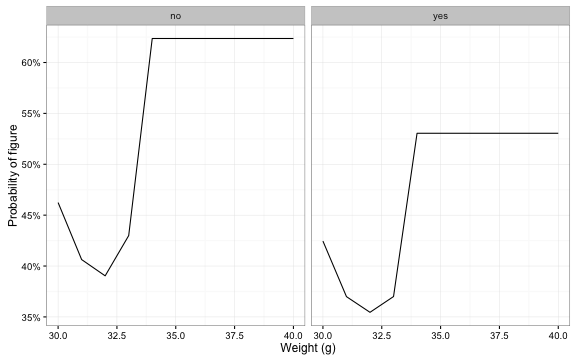
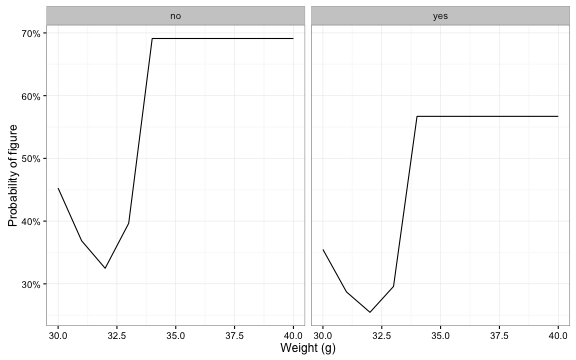
extended xgboost grid search for hyperparameters to get better classifier

diff --git a/_posts/2016-12-23-surprise.md b/_posts/2016-12-23-surprise.md
@@ -6,28 +6,7 @@ bibliography: ~/Literature/Bibtex/jabref.bib
 comments: true
 ---
 
-```{r,include=FALSE,echo=FALSE,message=FALSE}
-##If default fig.path, then set it.
-if (knitr::opts_chunk$get("fig.path") == "figure/") {
-  knitr::opts_knit$set( base.dir = '/Users/hoehle/Sandbox/Blog/')
-  knitr::opts_chunk$set(fig.path="figure/source/2016-12-23-surprise/")
-}
-fullFigPath <- paste0(knitr::opts_knit$get("base.dir"),knitr::opts_chunk$get("fig.path"))
-filePath <- "/Users/hoehle/Sandbox/Blog/figure/source/2016-12-23-surprise/"
 
-knitr::opts_chunk$set(echo = TRUE,fig.width=8,fig.height=5,fig.cap='',autodep=TRUE)
-options(width=90)
-library("dplyr")
-library("ggplot2")
-library("tidyr")
-library("methods")
-library("forcats")
-
-theme_set(theme_bw())
-
-##Set seed
-set.seed(123)
-```
 
 ## Abstract
 
@@ -37,9 +16,7 @@ using boosted regression trees for the egg's weight and possible
 rattling noises.
 
 <center>
-```{r,results='asis',echo=FALSE}
-cat(paste0("![]({{ site.baseurl }}/",knitr::opts_chunk$get("fig.path"),"pics/figures.jpg"),")")
-```
+![]({{ site.baseurl }}/figure/source/2016-12-23-surprise/pics/figures.jpg )
 </center>
 
 {% include license.html %}
@@ -74,10 +51,7 @@ Your budget is limited, so the question is which egg to select when
 standing in the supermarket?
 
 <center>
-```{r,results='asis',echo=FALSE}
-##Photo taken 17 Oct 2013 in Coop supermarked Södermalm, Stockholm.
-cat(paste0("![]({{ site.baseurl }}/",knitr::opts_chunk$get("fig.path"),"pics/inshopwithprice.jpg"),")")
-```
+![]({{ site.baseurl }}/figure/source/2016-12-23-surprise/pics/inshopwithprice.jpg )
 </center>
 <p>
 Photo: Price in SEK per egg in a Swedish supermarket.
@@ -108,20 +82,9 @@ based on boosted classification trees.
 
 ## Data Collection
 
-```{r,echo=FALSE}
-#Load data
-surprise <- read.table(paste0(filePath,"surprise.txt"),header=TRUE,skip=9)
-#Some data munging to get factor variable
-surprise <- surprise %>% mutate(rattles=1-rattles_like_figure, #solve ambiguity in the rattling covar
-                                rattles_fac = fct_recode(factor(rattles),
-                                                         "no"="0",
-                                                         "yes"="1"),
-                                figure_fac = fct_recode(factor(figure),
-                                                     "no" = "0",
-                                                     "yes" = "1"))
-```
-We collected n=`r nrow(surprise)` eggs of which
-`r sprintf('%.1f%%',100*mean(surprise$figure))` were figures - the
+
+We collected n=79 eggs of which
+43.0% were figures - the
 data are available under a GPL v3.0 license from [github](https://github.com/hoehleatsu/hoehleatsu.github.io/blob/master/figure/source/2016-12-23-surprise/surprise.txt). For
 each egg, we determined its **weight** as well as the sound it produced
 when being shaken. If the sounds could be characterized as **rattling**
@@ -129,29 +92,35 @@ when being shaken. If the sounds could be characterized as **rattling**
 many parts and, hence, unlikely to be a figure.
 
 <center>
-```{r,results='asis',echo=FALSE}
-cat(paste0("![]({{ site.baseurl }}/",knitr::opts_chunk$get("fig.path"),"pics/weightandrattle.jpg"),")")
-```
+![]({{ site.baseurl }}/figure/source/2016-12-23-surprise/pics/weightandrattle.jpg )
 </center>
 <p>
 Altogether, the first couple of rows of the dataset look as follows.
 
-```{r}
+
+```r
 head(surprise, n=5)
 ```
 
-### Descriptive Data Analysis
-```{r,echo=FALSE}
-tab <- with(surprise, table(figure, rattles))
+```
+##   weight rattles_like_figure figure rattles rattles_fac figure_fac
+## 1     32                   1      0       0          no         no
+## 2     34                   0      1       1         yes        yes
+## 3     34                   1      1       0          no        yes
+## 4     30                   1      0       0          no         no
+## 5     34                   1      1       0          no        yes
 ```
 
+### Descriptive Data Analysis
+
+
 The fraction of figures in the dataset was
-`r sum(surprise$figure)`/`r nrow(surprise)`, which is way higher than
+34/79, which is way higher than
 the proclaimed 1/7; possibly, because professionals egg collectors were at work...
 
-Of the `r sum(tab)` analysed eggs, `r colSums(tab)[1]` were categorized as non-rattling.
+Of the 79 analysed eggs, 54 were categorized as non-rattling.
 The probability of such a non-rattling egg really containing
-a figure was `r sprintf("%.1f%%",tab[1,1]/(tab[1,1]+tab[2,1])*100)`.
+a figure was 51.9%.
 This proportion is not impressive, but could be due to the data
 collector's having a different understanding of exactly how the variable
 *rattling* was to be interpreted: Does it *rattle*, or does it
@@ -163,20 +132,17 @@ A descriptive plot of the weight distribution of eggs with and without
 figure content shows, that eggs with figures tend to be slightly
 heavier:
 
-```{r, WEIGHTPLOT, echo=FALSE, fig.align='center'}
-##Plot boxplot & barchart in one figure
-p1 <- ggplot(surprise, aes(x=figure_fac, y= weight)) + geom_boxplot() + xlab("") + ylab("Weight (g)") + ggtitle("Figure inside?")
-p2 <- ggplot(surprise, aes(x=weight,fill=figure_fac)) + geom_bar() + xlab("Weight (g)") + ylab("Eggs") + scale_fill_manual(name="Figure inside?",values=c("yes"="#66C2A5","no"="#FC8D62")) + ggtitle("")
-gridExtra::grid.arrange(p1,p2,ncol=2)
-```
+<img src="http://staff.math.su.se/hoehle/blog/figure/source/2016-12-23-surprise/WEIGHTPLOT-1.png" style="display: block; margin: auto;" />
 Note: About 50% of the eggs were weighted on a standard supermarket scales, which showed the
 result in steps of 2g only.
 
 Below the proportion (in %) of eggs with figure content per observed weight:
-```{r,echo=FALSE}
-tabw <- with(surprise, table(weight, figure_fac))
-tabw <- tabw / rowSums(tabw)
-print(t(tabw*100),digits=3)
+
+```
+##           weight
+## figure_fac    26    28    29    30    31    32    33    34    35    36    40
+##        no  100.0  50.0  66.7  53.3  71.4  72.7  75.0  25.0 100.0  33.3   0.0
+##        yes   0.0  50.0  33.3  46.7  28.6  27.3  25.0  75.0   0.0  66.7 100.0
 ```
 
 A simple selection rule based on weight would be to weigh eggs until
@@ -194,7 +160,8 @@ and classify figure content using boosted regression trees as implemented in the
 be found in the following
 [tutorial](https://topepo.github.io/caret/index.html).
 
-```{r,message=FALSE,warning=FALSE,cache=TRUE, results='hide'}
+
+```r
 library(caret)
 
 ##Grid with xgboost hyperparameters
@@ -216,25 +183,42 @@ m_xgb <- train( figure_fac ~ weight * rattles_fac, data=surprise, method="xgbTre
 ##look at the result
 m_xgb
 ```
-```{r,echo=FALSE}
-str <- capture.output(m_xgb)
-#Skip some lines of the cv output
-idx1 <- grep("Resampling results across tuning",str)
-idx2 <- grep("Tuning parameter 'gamma' was ",str)
-#Reduce output
-removeLines <- (idx1+6):(idx2-4)
-str[removeLines[1]] <- "  ...  ...        ..."
-cat(paste(str[-removeLines[-1]],"\n"))
+
 ```
-```{r,eval=FALSE, echo=FALSE}
-m_xgb$bestTune
-sprintf("%.2f",mean(m_xgb$resample$ROC))
+## eXtreme Gradient Boosting  
+##   
+##  79 samples 
+##   2 predictor 
+##   2 classes: 'no', 'yes'  
+##   
+##  No pre-processing 
+##  Resampling: Cross-Validated (8 fold, repeated 8 times)  
+##  Summary of sample sizes: 69, 70, 69, 69, 69, 68, ...  
+##  Resampling results across tuning parameters: 
+##   
+##    eta    max_depth  subsample  nrounds  ROC        Sens       Spec      
+##    1e-04   2         0.4          25     0.6661328  0.8661458  0.4328125 
+##    1e-04   2         0.4          50     0.6657943  0.8661458  0.4359375 
+##    1e-04   2         0.4         100     0.6760938  0.8661458  0.4398437 
+##    ...  ...        ... 
+##    1e-02  16         0.6         250     0.6769792  0.7901042  0.4210937 
+##    1e-02  16         0.6        1000     0.6578516  0.7364583  0.4335938 
+##   
+##  Tuning parameter 'gamma' was held constant at a value of 1 
+##  Tuning 
+##   parameter 'colsample_bytree' was held constant at a value of 0.8 
+##  Tuning 
+##   parameter 'min_child_weight' was held constant at a value of 1 
+##  ROC was used to select the optimal model using  the largest value. 
+##  The final values used for the model were nrounds = 250, max_depth = 6, eta = 0.01, 
+##   gamma = 1, colsample_bytree = 0.8, min_child_weight = 1 and subsample = 0.4.
 ```
 
-The average AUC for the `r length(m_xgb$resample$ROC)` resamples is
-`r sprintf("%.2f",mean(m_xgb$resample$ROC))`. Average sensitivity and
-specificity are `r sprintf("%.1f%%",100*mean(m_xgb$resample$Sens))`
-and `r sprintf("%.1f%%",100*mean(m_xgb$resample$Spec))`, respectively.
+
+The average AUC for the 64 resamples is
+0.69. Average sensitivity and
+specificity are 84.0%
+and 42.1%, respectively.
 This shows that predicting figure content with the available data is
 better than simply picking an egg at random,
 but no figure-guaranteeing strategy appears possible on a per-egg basis.
@@ -244,8 +228,14 @@ but no figure-guaranteeing strategy appears possible on a per-egg basis.
 Suppose the egg you look at weighs 36g and, when shaken, sounds
 like a lot of small parts being moved. In other words:
 
-```{r, echo=TRUE,message=FALSE,warning=FALSE}
+
+```r
 predict(m_xgb, newdata = data.frame(weight=36, rattles_fac="yes"),type="prob")
+```
+
+```
+##          no       yes
+## 1 0.4329863 0.5670137
 ```
 
 Despite the rattling noises, the classifier thinks that it's slightly
@@ -253,9 +243,7 @@ more likely that the content is a figure. However, when we opened this
 particular egg:
 
 <center>
-```{r,results='asis',echo=FALSE}
-cat(paste0("![]({{ site.baseurl }}/",knitr::opts_chunk$get("fig.path"),"pics/car.jpg"),")")
-```
+![]({{ site.baseurl }}/figure/source/2016-12-23-surprise/pics/car.jpg )
 </center>
 <p>
 
@@ -267,11 +255,7 @@ supermarket hunt, below are shown the classifier's predicted
 probabilities for figure content as a function of egg weight and the
 `rattles_fac` variable.
 
-```{r,echo=FALSE, CLASSIFIEROUTPUT,fig.align="center"}
-nd <- data.frame(weight=rep(30:40,times=2), rattles_fac=rep(c("no","yes"),each=11))
-nd$p <- predict(m_xgb, newdata = nd,type="prob")[,2]
-ggplot(nd, aes(x=weight, y=p)) + geom_line() + facet_grid(. ~ rattles_fac) + ylab("Probability of figure") + xlab("Weight (g)") + scale_y_continuous(labels=scales::percent)
-```
+<img src="http://staff.math.su.se/hoehle/blog/figure/source/2016-12-23-surprise/CLASSIFIEROUTPUT-1.png" style="display: block; margin: auto;" />
 
 ## Discussion
 
